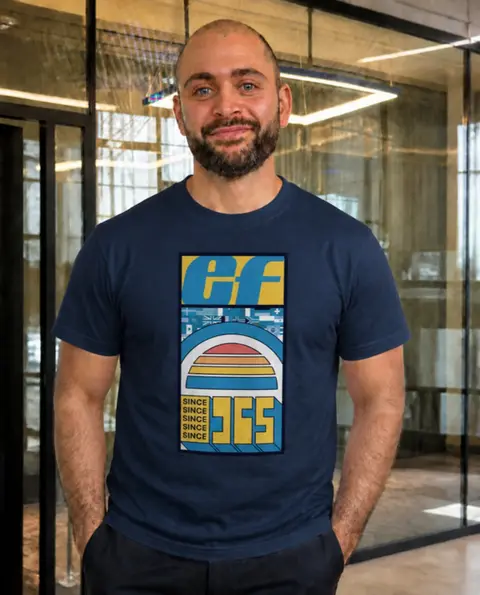
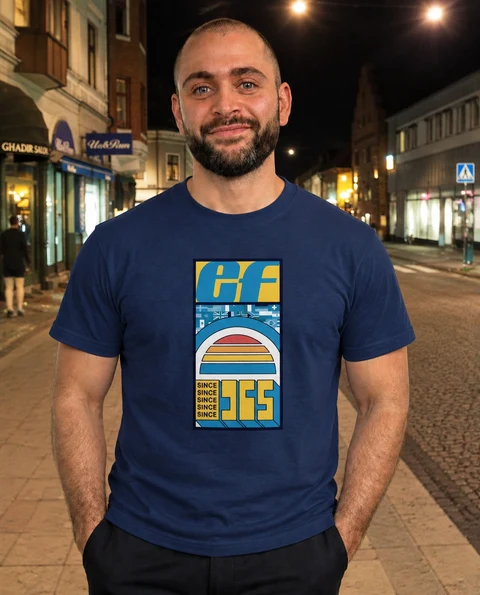
Photos of Jonathan at EF locations (first 13), model fit line, sharper model images
- New AI photos (labeled) shot at Charles River/EF HQ, Lund, Brighton, Hult Boston, Lucerne instead of an office
- Boxy tees show their regular-tee twin's photo, noted on the card
- Model line on every product with a photo (size from data/model_fit.json)
- Model WebP quality 74 -> 88

diff --git a/lib/products.ts b/lib/products.ts
@@ -43,11 +43,18 @@ export type Collection = {
 
 const MODELS = models as Record<string, string>;
 // Products with a photo of Jonathan wearing them lead with that photo (labeled as AI-generated).
-export const PRODUCTS = (data as { products: Product[] }).products.map((p) =>
-  MODELS[p.id] && p.id !== "_note"
-    ? { ...p, model: MODELS[p.id], images: [`/images/models/${p.id}.jpg`, ...p.images] }
-    : p,
-).sort((a, b) => Number(!!b.model) - Number(!!a.model)); // photos of Jonathan lead every list (stable sort)
+const RAW = (data as { products: Product[] }).products;
+/** The photo of Jonathan for a product: its own, or (boxy tees) the one of the same print on the regular tee. */
+const modelFor = (p: Product): string | undefined => {
+  if (MODELS[p.id]) return p.id;
+  if (p.garment !== "Boxy Tee") return undefined;
+  const tee = RAW.find((q) => q.garment === "Tee" && q.design === p.design && q.print === p.print && q.collection === p.collection);
+  return tee && MODELS[tee.id] ? tee.id : undefined;
+};
+export const PRODUCTS = RAW.map((p) => {
+  const m = modelFor(p);
+  return m ? { ...p, model: MODELS[m], images: [`/images/models/${m}.jpg`, ...p.images] } : p;
+}).sort((a, b) => Number(!!b.model) - Number(!!a.model)); // photos of Jonathan lead every list (stable sort)
 export const isModelImage = (src: string) => src.startsWith("/images/models/");
 
 const GARMENT_GROUPS: Record<string, Garment[]> = {

diff --git a/components/shop/ProductDetail.tsx b/components/shop/ProductDetail.tsx
@@ -4,6 +4,7 @@ import Link from "next/link";
 import { useEffect, useState } from "react";
 import { isModelImage, type Product } from "@/lib/products";
 import { usd } from "@/lib/format";
+import { modelLine } from "@/lib/modelFit";
 import { track } from "@/lib/analytics";
 import { useBag } from "../Bag";
 import SizeGuide from "./SizeGuide";
@@ -59,7 +60,7 @@ export default function ProductDetail({ p, collectionName, shipping, returnsExtr
             className={s.mainImg}
           />
           {isModelImage(p.images[img]) && (
-            <p className={s.aiNote}>AI-generated image of a real person (Jonathan, Hult MBA 2026) wearing this design.</p>
+            <p className={s.aiNote}>{modelLine(p.garment)}. AI-generated image of a real person (Hult MBA 2026).</p>
           )}
         </div>
         {p.images.length > 1 && (

diff --git a/components/shop/ProductCard.tsx b/components/shop/ProductCard.tsx
@@ -2,6 +2,7 @@ import Image from "next/image";
 import Link from "next/link";
 import type { CardProduct as Product } from "@/lib/products";
 import { usd } from "@/lib/format";
+import { modelLine } from "@/lib/modelFit";
 import Swatches from "./Swatches";
 import s from "./ProductCard.module.css";
 
@@ -27,6 +28,7 @@ export default function ProductCard({ p, priority = false }: { p: Product; prior
         </div>
         <h3 className={s.name}>{p.new_name}</h3>
       </Link>
+      {p.model && <p className={s.fit}>{modelLine(p.garment)}{p.garment === "Boxy Tee" && p.teeTwin ? " (shown in the regular tee)" : ""}</p>}
       {p.boxyTwin && <Link href={`/product/${p.boxyTwin}`} className={s.twin}>Also in boxy fit</Link>}
       <div className={s.meta}>
         <span className={s.price}>{usd(p.new_price_usd)}</span>

diff --git a/components/shop/ProductCard.module.css b/components/shop/ProductCard.module.css
@@ -12,3 +12,4 @@
 .aiTag { position: absolute; left: 6px; top: 6px; z-index: 1; background: var(--ink); color: var(--paper); font-size: 10px; font-weight: 600; letter-spacing: 0.06em; text-transform: uppercase; padding: 3px 6px; }
 .twin { display: inline-block; font-size: 13px; color: var(--muted, #6b6b6b); text-decoration: underline; text-underline-offset: 3px; margin: -2px 0 6px; }
 .twin:hover { color: var(--ink); }
+.fit { font-size: 12px; color: var(--muted); margin: -2px 0 4px; }

diff --git a/lib/modelFit.ts b/lib/modelFit.ts
@@ -1,0 +1,8 @@
+import fit from "@/data/model_fit.json";
+
+/** "Jonathan is 5′10″ and wears size L", or just the name until the size is filled in. */
+export function modelLine(garment: string): string {
+  const what = garment === "Hat" ? "cap: one size" : fit.size ? `size ${fit.size}` : "";
+  const tall = fit.height ? ` is ${fit.height} and` : "";
+  return what ? `${fit.name}${tall} wears ${what}` : `${fit.name} is wearing it`;
+}
